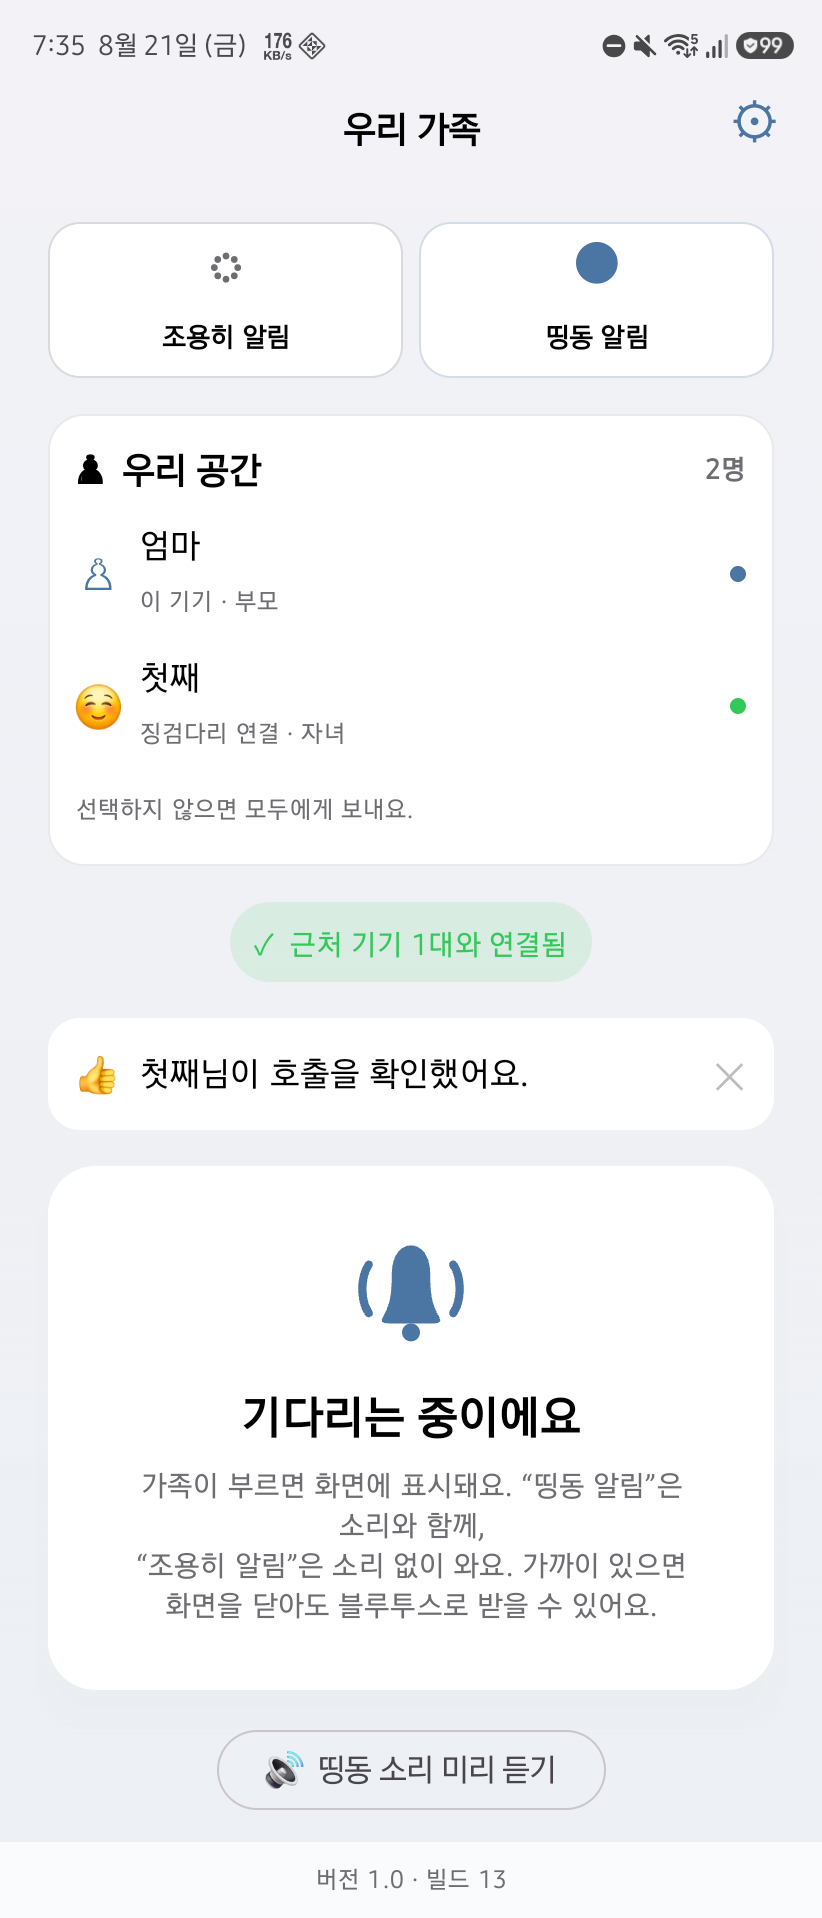
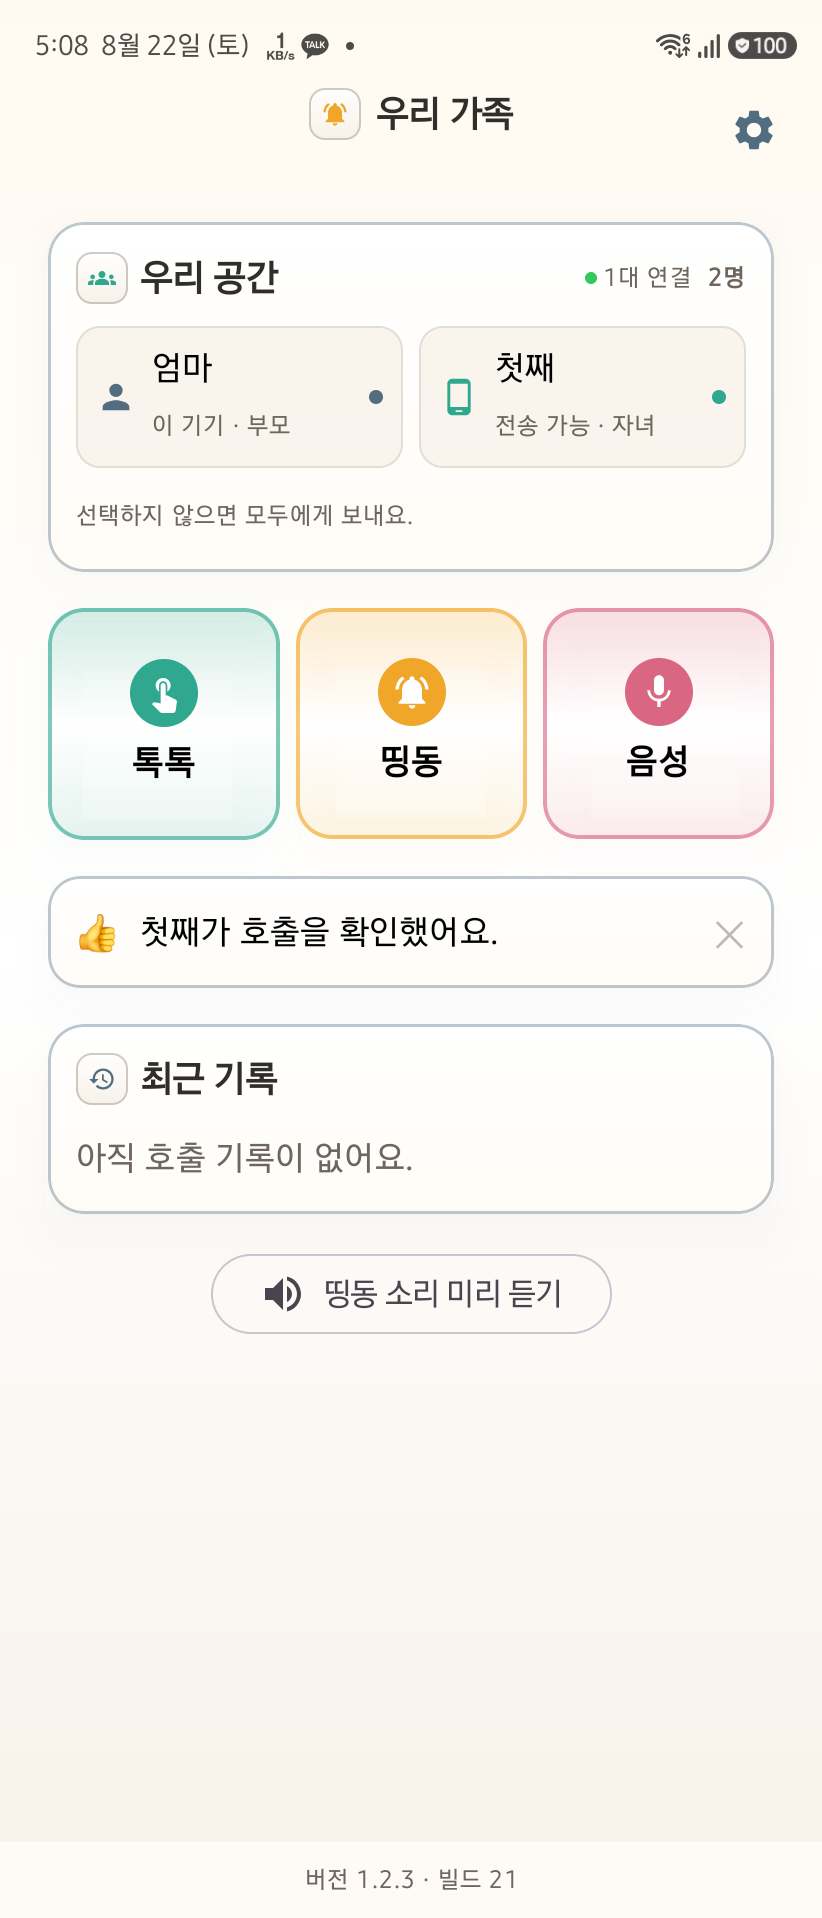
Publish refreshed Button 1.2.3 product page

diff --git a/app/data.ts b/app/data.ts
@@ -578,19 +578,19 @@ export const apps: AppData[] = [
     english: "Button",
     eyebrow: "ONE TAP, YOUR FAMILY HEARS YOU",
     tagline: "가족을 부르는 가장 간단한 버튼.",
-    summary: "가족 기기를 QR로 여러 공간에 묶고 톡톡·띵동·음성과 긴급 사이렌을 보내는 iPhone·Android 가족 호출 앱입니다. 가까운 기기는 직접 연결하고, 개인 NAS가 iPhone의 APNs와 Android의 FCM을 함께 중계합니다.",
+    summary: "가족 기기를 QR로 여러 공간에 묶고 톡톡·띵동·음성과 긴급 사이렌을 보내는 iPhone·Android 가족 호출 앱입니다. 아이도 한눈에 구분하도록 밝고 따뜻한 화면을 쓰며, 개인 NAS가 원거리 호출을 중계합니다.",
     theme: "coral",
     icon: "/apps/button/icon.png",
     artwork: "phones",
     platforms: [
-      { name: "iPhone", status: "완료", detail: "1.2.1 (19) · iOS 17+", availabilityNote: "TestFlight 업로드 완료" },
+      { name: "iPhone", status: "완료", detail: "1.2.2 (20) · iOS 17+", availabilityNote: "TestFlight 업로드 완료" },
       {
         name: "Android",
         status: "공개",
-        detail: "1.2.2 (20) · Android 8.0+",
-        url: "https://github.com/armsone/button-Android/releases/download/v1.2.2/Button-Android-v1.2.2-build20.apk",
+        detail: "1.2.3 (21) · Android 8.0+",
+        url: "https://github.com/armsone/button-Android/releases/download/v1.2.3/Button-Android-v1.2.3-build21.apk",
         downloadLabel: "Android APK 바로 받기",
[2 lines of base64/hex data omitted]
       },
     ],
     features: [
@@ -617,8 +617,9 @@ export const apps: AppData[] = [
       { state: "done", title: "세 가지 호출과 확인", body: "큰 정사각형 톡톡·띵동·음성 버튼, 개별 전송, 20개 최근 기록과 미확인 인원 표시 구현" },
       { state: "done", title: "원거리 푸시 중계", body: "Synology NAS에서 APNs와 FCM을 함께 운영해 iPhone·Android 잠금·백그라운드 호출 지원" },
       { state: "done", title: "여러 사람 선택과 화면 유지", body: "한 명 이상을 골라 보내는 대상 전송과 앱이 앞에 있는 동안 화면 꺼짐 방지 구현" },
-      { state: "done", title: "iPhone 1.2.1 업로드", body: "여러 사람 선택과 화면 유지를 반영한 build 19를 TestFlight에 업로드" },
-      { state: "done", title: "Android 1.2.2 공개", body: "Firebase 원격 수신 설정과 여러 사람 선택을 반영한 서명 build 20 APK와 체크섬을 GitHub Releases에 공개" },
+      { state: "done", title: "밝고 직관적인 가족 화면", body: "우리 공간을 먼저 보고 민트·노랑·로즈의 큰 버튼을 누르도록 밝고 따뜻한 BK 스타일 적용" },
+      { state: "done", title: "iPhone 1.2.2 업로드", body: "새 가족 화면을 반영한 build 20을 TestFlight에 업로드" },
+      { state: "done", title: "Android 1.2.3 공개", body: "새 가족 화면을 반영한 서명 build 21 APK와 체크섬을 GitHub Releases에 공개" },
       { state: "done", title: "NAS 여러 공간 중계 반영", body: "운영 서버를 최신 여러 공간 서버로 교체하고 원거리 가족 목록 경로까지 확인" },
       { state: "done", title: "Android 원격 수신", body: "FCM 등록·백그라운드 대상 검증·원본 띵동 소리·호출 기록까지 NAS 실전 전달 확인" },
     ],
